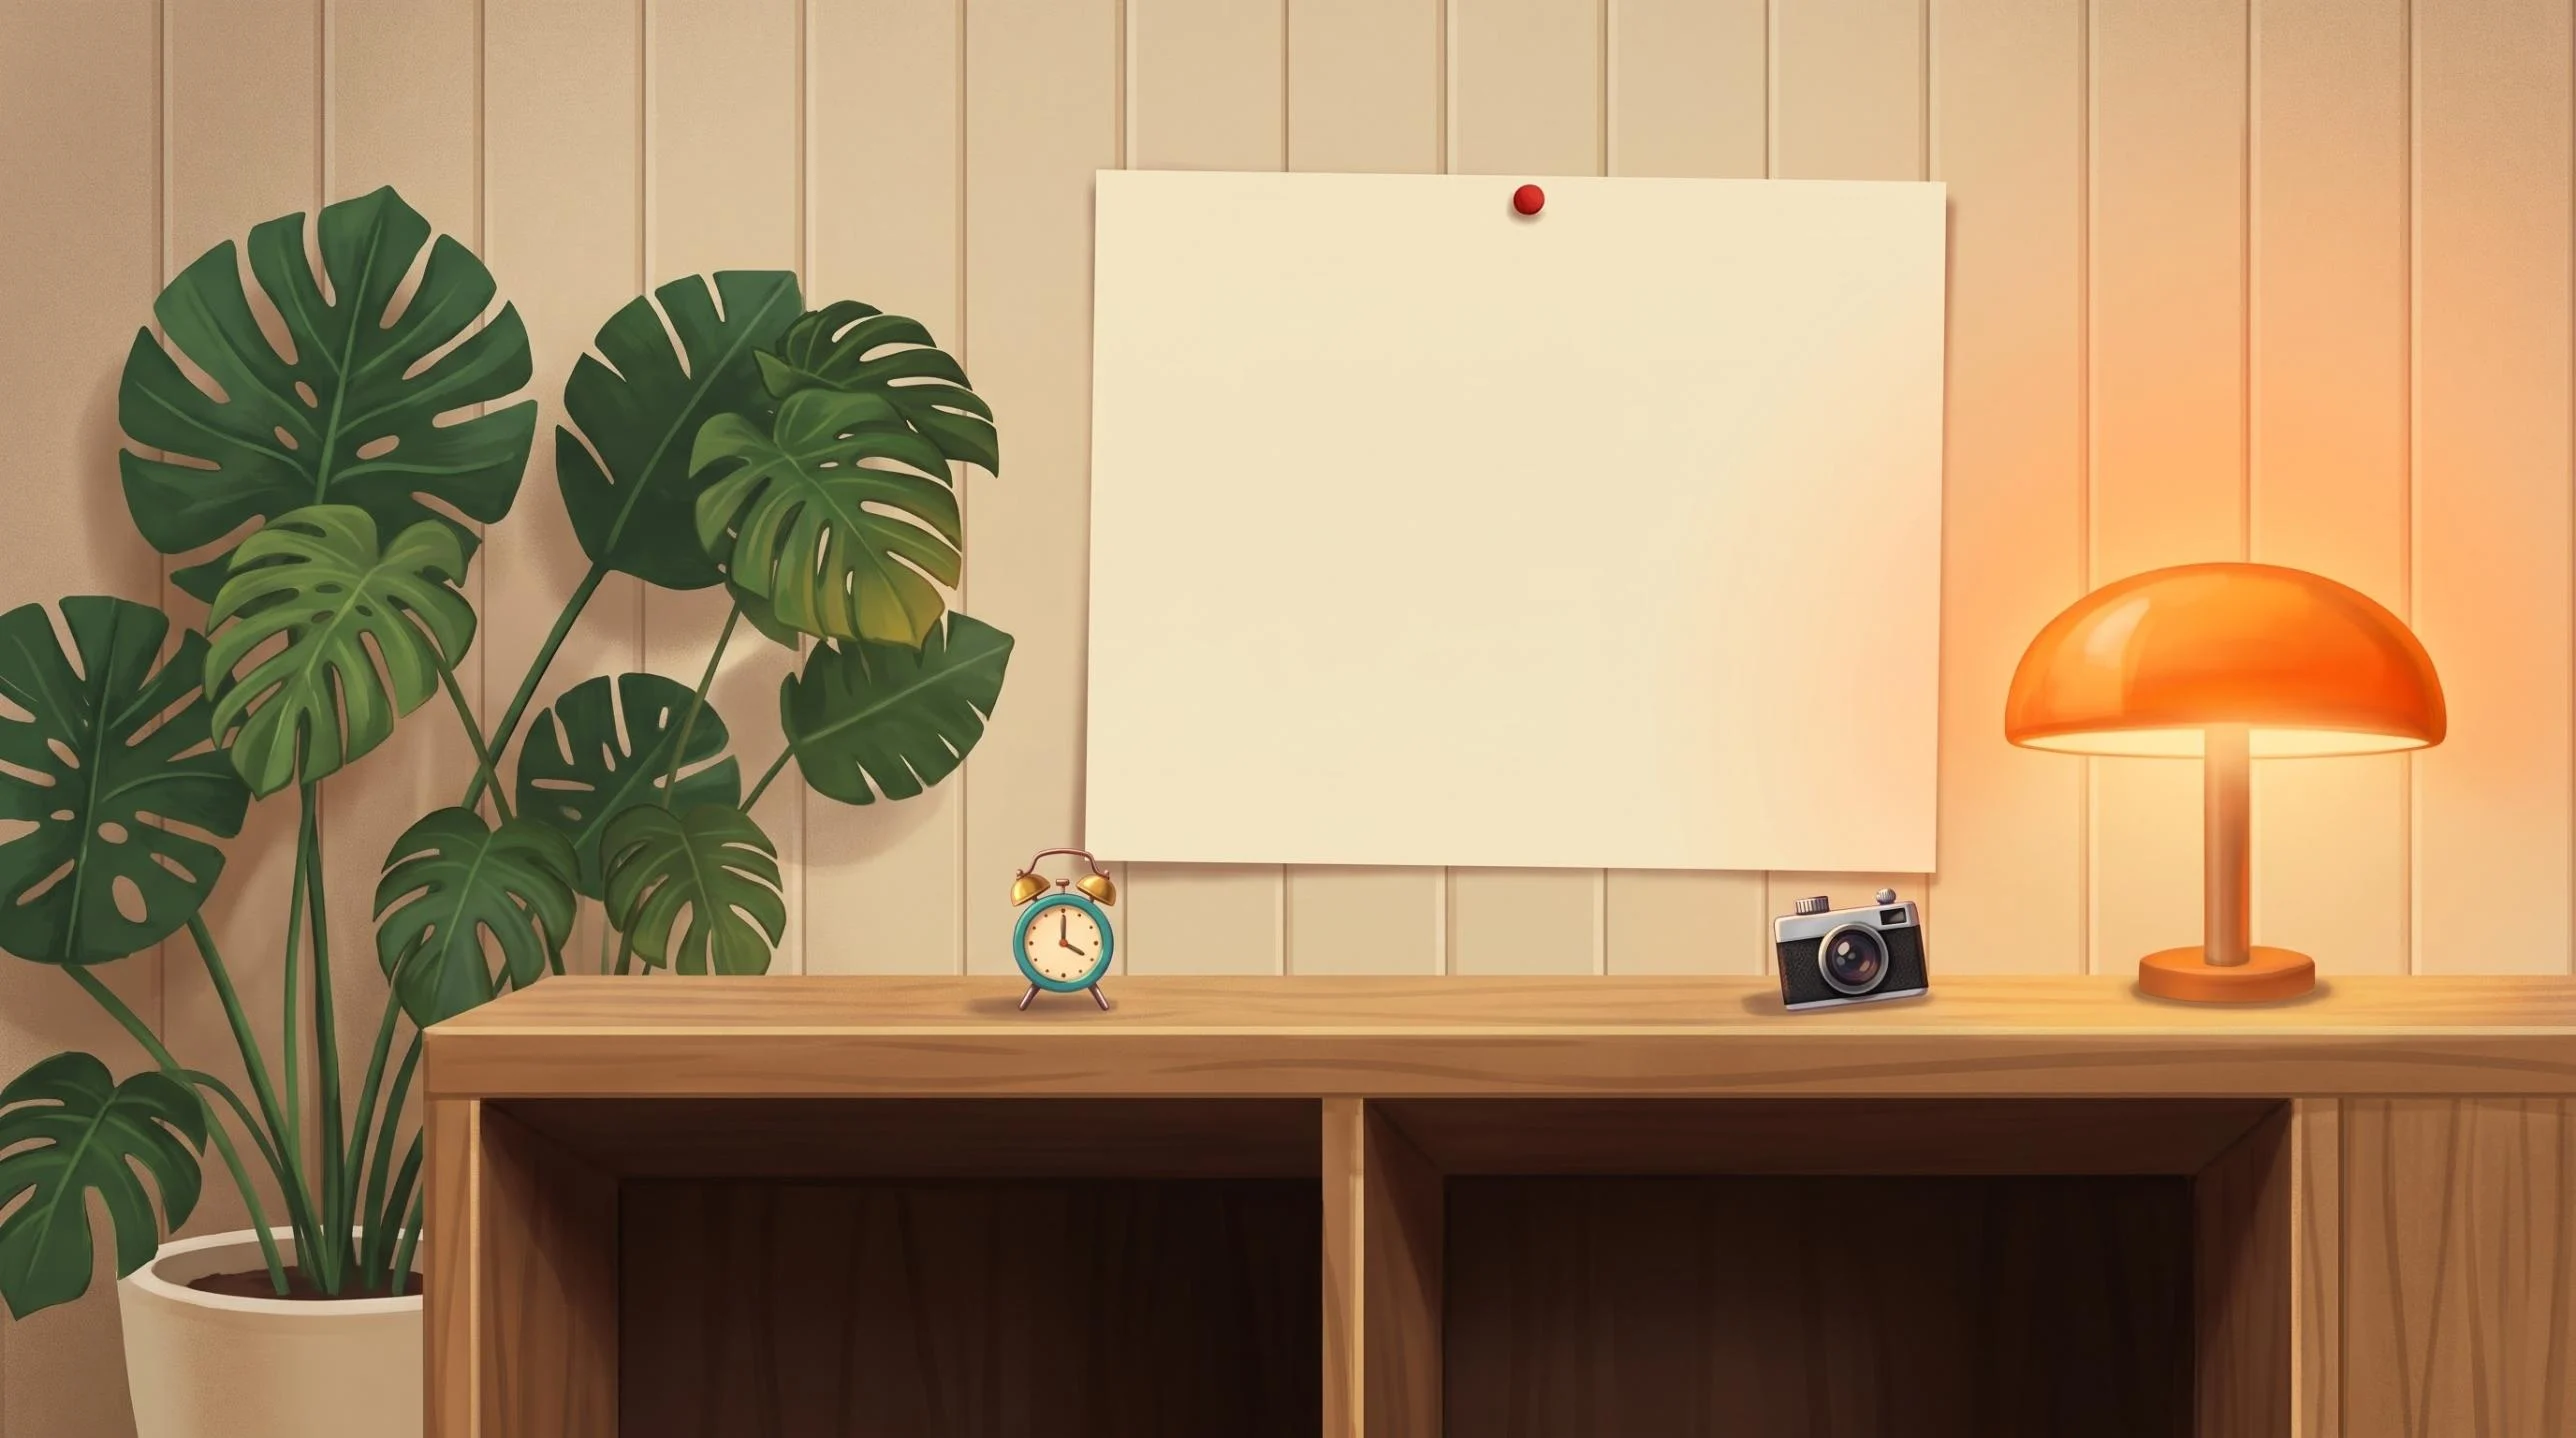
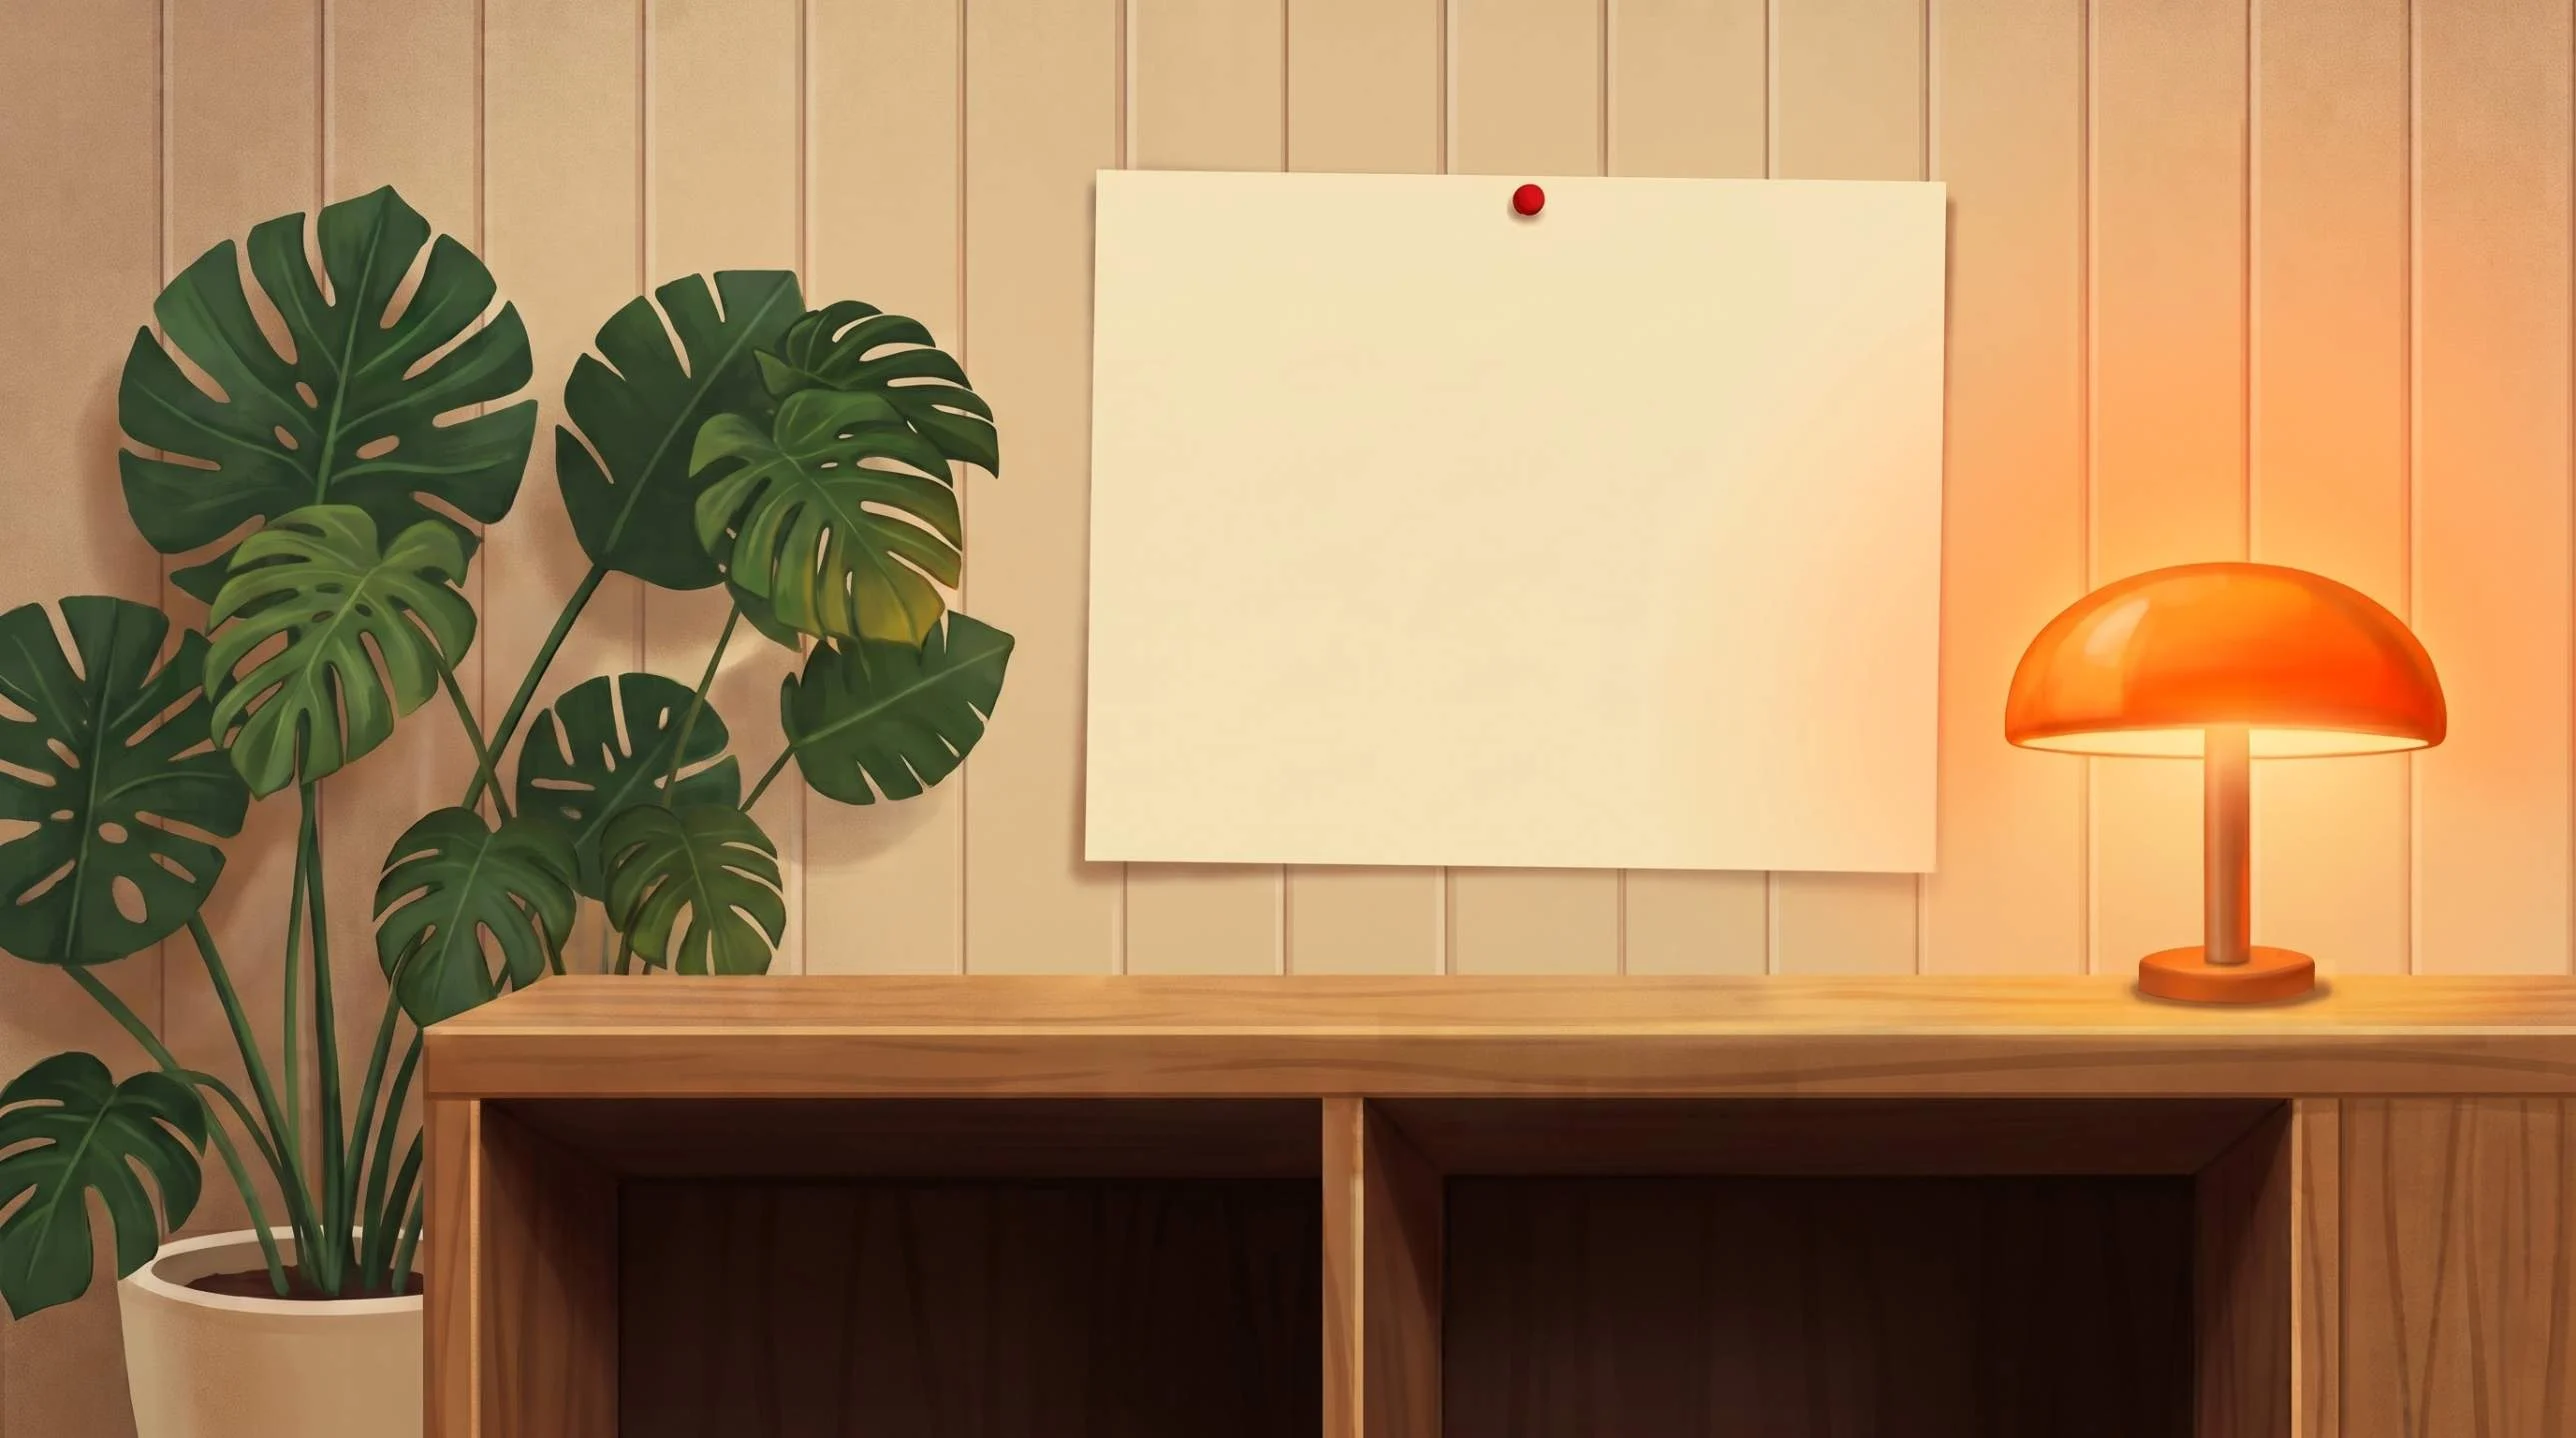
0.22.1: la entrada de Biblioteca con el despertador y la cámara como piezas (S-43) (#86)
Claude-Session: https://claude.ai/code/session_01PXLdeMFBD5mPfL1jfNcqWK

diff --git a/biblioteca/index.html b/biblioteca/index.html
@@ -23,8 +23,11 @@
   text-shadow: 0 -.6rem 0 rgba(0, 0, 0, .45), 0 .5rem 0 rgba(255, 230, 170, .12); white-space: nowrap; }
 .libro.elegido { transform: translateY(-9rem); filter: drop-shadow(0 0 2rem var(--ambar)) drop-shadow(0 0 2rem var(--ambar)) drop-shadow(0 0 1rem var(--ambar)) drop-shadow(0 10rem 8rem rgba(0, 0, 0, .3)); }
 
-/* la cámara: la pieza del P-013, derecha y más grande, encima de la que trae pintada el fondo (chica y torcida), para que
-   guarde la proporción con el despertador */
+/* el despertador y la cámara: las piezas del P-013, apoyadas sobre la tapa del mueble (el fondo, P-016, viene sin ellos
+   desde la 0.22.1, para poder cambiarlos sin volver a pedirlo). El despertador, entre el tamaño que tenía pintado y el de la
+   cámara (S-43) */
+#reloj { left: 347.5rem; top: 232.3rem; width: 59.8rem; height: 79.7rem; pointer-events: none; z-index: 1;
+  filter: drop-shadow(0 2rem 2.5rem rgba(40, 20, 5, .4)); }
 #camara { left: 614rem; top: 207rem; width: 80rem; height: 106.7rem; pointer-events: none; z-index: 1;
   filter: drop-shadow(0 2rem 2.5rem rgba(40, 20, 5, .4)); }
 /* la ficha y su chinche vienen pintadas (P-016): acá solo lo escrito */
@@ -43,6 +46,7 @@
 <body>
 <div id="stage">
   <img id="fondo" src="arte/fondo-entrada.webp" alt="" draggable="false">
+  <img id="reloj" src="arte/objetos/despertador.webp" alt="" draggable="false">
   <img id="camara" src="arte/objetos/camara.webp" alt="" draggable="false">
 
   <div id="libros" role="radiogroup" aria-label="Dificultad"></div>

diff --git a/sw.js b/sw.js
@@ -8,7 +8,7 @@
 
    El sitio, efevali.github.io, es el mismo de Kasa: lo guardado lleva el prefijo «coleccion-» y solo se borra lo
    propio, más lo que guardaba el Fogonazo publicado («fogonazo-»), al que esta versión reemplaza. */
-const VERSION = '0.22.0';
+const VERSION = '0.22.1';
 const FECHA = '12/11/2026';
 const CACHE = 'coleccion-v' + VERSION;
 const ARCHIVOS = [

diff --git a/docs/estilo.md b/docs/estilo.md
@@ -73,7 +73,7 @@ La biblioteca baja del living vista de frente y de cerca, con la pared de tablas
 - **La partida** (P-010; Fácil, P-011): el mueble de madera clara con sus casilleros con profundidad (costados, techo y estante), 4 × 3 o, en Fácil, 3 × 3. Los objetos los pone el código sobre la abertura de cada casillero: adelante, parados sobre el estante; atrás, más chicos, más arriba y en sombra (en silueta en Difícil).
 - **Los objetos** (P-012 a P-014): pintados, de frente, con la luz de arriba a la derecha y una silueta propia, salvo los que se parecen a propósito. Los casetes, con el centro de los carretes del tono de la cinta.
 - **Las puertas** (P-015): el marco de bronce de una vidriera de dos hojas, con su cerradura (el vidrio, con código), y una reja de tijera de hierro gris con candado. Las llaves, de bronce con cinta roja y de hierro con ojo de trébol y cinta verde.
-- **La entrada** (P-016): la tapa del mueble con la costilla de Adán, el despertador, la cámara (la pieza del P-013, derecha) y la lámpara hongo encendida; en la pared, la ficha de préstamo pintada en blanco, con lo escrito encima. Los tres libros de la dificultad, pintados, con el nombre en Fraunces dorado viejo; el elegido, levantado y con borde ámbar.
+- **La entrada** (P-016): la tapa del mueble con la costilla de Adán y la lámpara hongo encendida; encima, el despertador y la cámara son las piezas del P-013 (S-43), para poder cambiarlos sin volver a pedir el fondo; en la pared, la ficha de préstamo pintada en blanco, con lo escrito encima. Los tres libros de la dificultad, pintados, con el nombre en Fraunces dorado viejo; el elegido, levantado y con borde ámbar.
 
 ## Sonido
 

diff --git a/docs/imagenes.md b/docs/imagenes.md
@@ -46,7 +46,7 @@ Cómo se piden, se revisan y se montan las imágenes de la colección. Las regla
 | P-013 | Los nueve adornos | Gemini, a la primera, con más volumen que el P-012; las láminas siguientes lo tomaron de referencia | [`biblioteca/arte/P-013_adornos.jpg`](biblioteca/arte/P-013_adornos.jpg) |
 | P-014 | Los seis casetes y las dos llaves | Gemini, a la primera; los huecos de los carretes vinieron en magenta y se rellenan al recortar | [`biblioteca/arte/P-014_casetes-llaves.jpg`](biblioteca/arte/P-014_casetes-llaves.jpg) |
 | P-015 | La puerta de vidrio (solo el marco) y la reja | Gemini, casi cuadradas en vez de apaisadas: se llevaron a mano a la proporción del casillero, con la cerradura sin deformar | [`biblioteca/arte/P-015_puertas.jpg`](biblioteca/arte/P-015_puertas.jpg) |
-| P-016 | El fondo de la entrada de Biblioteca | Gemini, a la primera y en su lugar al píxel, con tres referencias juntas en una lámina (la sala, el despertador y la cámara, la madera) | [`biblioteca/arte/P-016_fondo-entrada.jpg`](biblioteca/arte/P-016_fondo-entrada.jpg) |
+| P-016 | El fondo de la entrada de Biblioteca | Gemini, a la primera y en su lugar al píxel, con tres referencias juntas en una lámina (la sala, el despertador y la cámara, la madera). El 12/11, Producto le pidió en la misma línea la versión sin el despertador ni la cámara, idéntica en todo lo demás: desde la 0.22.1 esos dos son las piezas del P-013, encima | [`biblioteca/arte/P-016_fondo-entrada.jpg`](biblioteca/arte/P-016_fondo-entrada.jpg) |
 
 ## Un pedido que salió a la primera
 

diff --git a/CHANGELOG.md b/CHANGELOG.md
@@ -2,6 +2,10 @@
 
 Las versiones publicadas de la colección, de la más nueva a la más vieja. Sigue el formato de [Keep a Changelog](https://keepachangelog.com/es-ES/1.1.0/) y el versionado semántico del [README](README.md#versiones). Cada versión se encuentra en el historial por el título de su commit, que empieza con el número.
 
+## 0.22.1 — 12/11/2026
+
+- **La entrada de Biblioteca, más prolija** (S-43): el fondo ya no trae pintados el despertador ni la cámara; los dos son las piezas de los objetos, apoyadas sobre el mueble, la cámara derecha y el despertador un poco más grande. Así se pueden cambiar sin volver a pedir el fondo.
+
 ## 0.22.0 — 12/11/2026
 
 - **Biblioteca suena** (S-41, S-42). La música es Taller de Fogonazo como primo de dibujito de los 70, a 116 y con swing, con bajo eléctrico, piano eléctrico, bongós, shaker, pandereta y la melodía silbada; un solo tema en la entrada y la partida, que baja al terminar.

diff --git a/docs/biblioteca/README.md b/docs/biblioteca/README.md
@@ -82,3 +82,4 @@ Un juego de ordenar en la biblioteca baja del living: se juntan tres objetos igu
 | S-40d | Fácil (P-011) | Aprobado (11/11) |
 | S-41 | La música: Taller como primo de dibujos animados, A (caricatura clásica), B (dibujito de los 70) y B2 (B con brillo), con o sin swing y a cuatro tempos; elegida (12/11) B2 a 116 con swing y la melodía silbada | Aprobado (12/11): un solo tema en todo Biblioteca, igual de fuerte en la partida, que baja al terminar; en la 0.22.0 |
 | S-42 | Los efectos, en dos variantes: R (realistas, del rubro) y D (con un toque de dibujito, notas en do y silbidos), con la música de fondo | Aprobado (12/11): la D, entera; en la 0.22.0 |
+| S-43 | La entrada con el fondo sin despertador ni cámara (P-016, versión del 12/11) y las dos piezas del P-013 encima; el despertador, entre el tamaño que tenía y el de la cámara | Aprobado (12/11), en la 0.22.1 |
